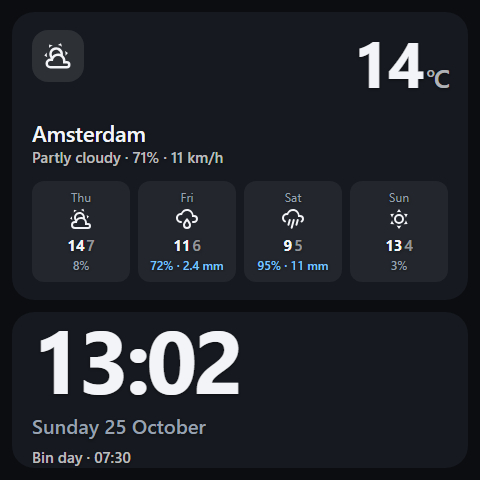
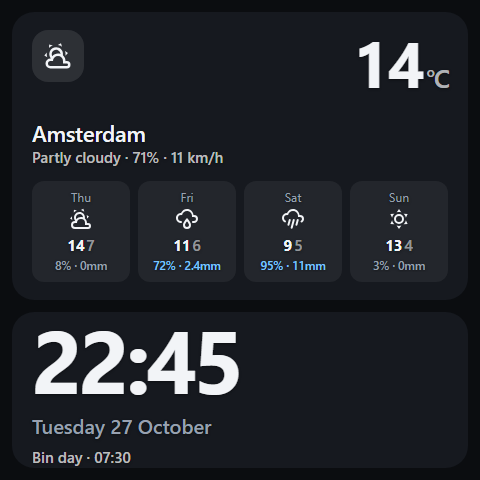
0.12.1: the rain line always shows the amount when it is known
"3%" alone read as a missing feature and cannot tell a drizzle from a
downpour; a dry hour now says "3% · 0mm". No space before the unit and a
touch of negative tracking, so "100% · 12mm" fits five tiles across.

diff --git a/dist/nspanel-cards.js b/dist/nspanel-cards.js
@@ -45,7 +45,7 @@
  * move, so a swipe card wrapping these cards keeps working. See _onMove.
  */
 
-const NSPANEL_VERSION = '0.12.0';
+const NSPANEL_VERSION = '0.12.1';
 
 console.info(
   `%c NSPANEL-CARDS %c v${NSPANEL_VERSION} `,
@@ -1401,7 +1401,7 @@ const INFO_CSS = `
 /* the rain under the temperature: blue when it is worth noticing */
 .fc .dr {
   margin-top: 3px; font-size: 12px; font-weight: 600; line-height: 14px;
-  color: var(--ns-muted); font-variant-numeric: tabular-nums;
+  color: var(--ns-muted); font-variant-numeric: tabular-nums; letter-spacing: -0.02em;
   white-space: nowrap; overflow: hidden; text-overflow: ellipsis;
 }
 .fc .dr.wet { color: #7cc4ff; }
@@ -3422,8 +3422,8 @@ const CONDITION_LABELS = {
 
 const DAY_NAMES = ['Sun', 'Mon', 'Tue', 'Wed', 'Thu', 'Fri', 'Sat'];
 
-/* The rain in one forecast entry, as short as a tile allows: "80% · 1.2 mm",
-   "40%", "0.4 mm". Null when the provider sends neither. `wet` is worth
+/* The rain in one forecast entry, as short as a tile allows: "80% · 1.2mm",
+   "3% · 0mm", "40%". Null when the provider sends neither. `wet` is worth
    noticing: a real chance, or any amount at all. The app has the same
    function (lib/util/weather.dart); keep them saying the same thing. */
 function rainOf(f, unit) {
@@ -3432,8 +3432,10 @@ function rainOf(f, unit) {
   if (prob === null && amount === null) return null;
   const parts = [];
   if (prob !== null) parts.push(`${Math.round(prob)}%`);
-  if (amount !== null && amount > 0) parts.push(`${fmt(amount, amount < 10 ? 1 : 0)} ${unit}`);
-  if (!parts.length) parts.push(`0 ${unit}`);
+  // the amount whenever it is known, dry hours too: the chance alone cannot
+  // tell a drizzle from a downpour. No space before the unit: five tiles
+  // across leave ~73 px, and "100% · 12 mm" needs 77.
+  if (amount !== null) parts.push(amount > 0 ? `${fmt(amount, amount < 10 ? 1 : 0)}${unit}` : `0${unit}`);
   return { text: parts.join(' \u00b7 '), wet: (prob || 0) >= 30 || (amount || 0) > 0 };
 }
 

diff --git a/README.md b/README.md
@@ -110,7 +110,7 @@ That rules out `color-mix()` and CSS nesting; neither is used.
 ### Manual
 
 1. Copy `dist/nspanel-cards.js` to `/config/www/nspanel-cards.js`
-2. Settings → Dashboards → ⋮ → Resources → `/local/nspanel-cards.js?v=0.12.0`, type
+2. Settings → Dashboards → ⋮ → Resources → `/local/nspanel-cards.js?v=0.12.1`, type
    **JavaScript module**
 
 Home Assistant caches `/local/` hard. Bump the `?v=` when you update, or you will be looking at
@@ -778,9 +778,11 @@ enough not to have that command it falls back to the entity's `forecast` attribu
 `show_forecast: false` for current conditions only.
 
 `show_precipitation: true` puts the rain under each hour or day: the chance and the amount,
-`80% · 1.2 mm`, in blue when it is worth noticing - a chance of 30% or more, or any rain at
-all - and grey when it is dry. Both come from the weather provider; most send them (Met.no,
-the default, does, hourly and daily), and a provider that sends neither shows a dash. The line
+`80% · 1.2mm`, so a drizzle and a downpour look different. The amount is there for dry hours
+too (`3% · 0mm`). It is blue when it is worth noticing - a chance of 30% or more, or any rain
+at all - and grey when it is dry. Both come from the weather provider; most send them (Met.no,
+the default, does, hourly and daily). A provider that sends only one shows that one, and one
+that sends neither shows a dash. The line
 needs about 20 px, so give the card a little more `height` than before.
 
 | Option | Default | |
